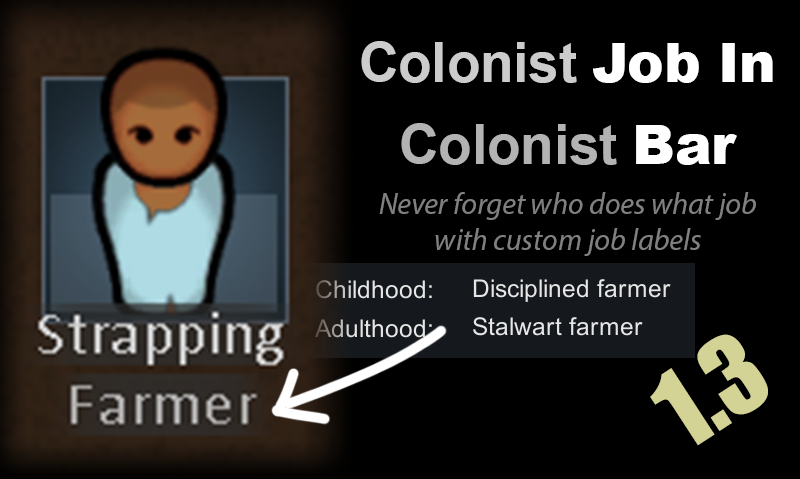
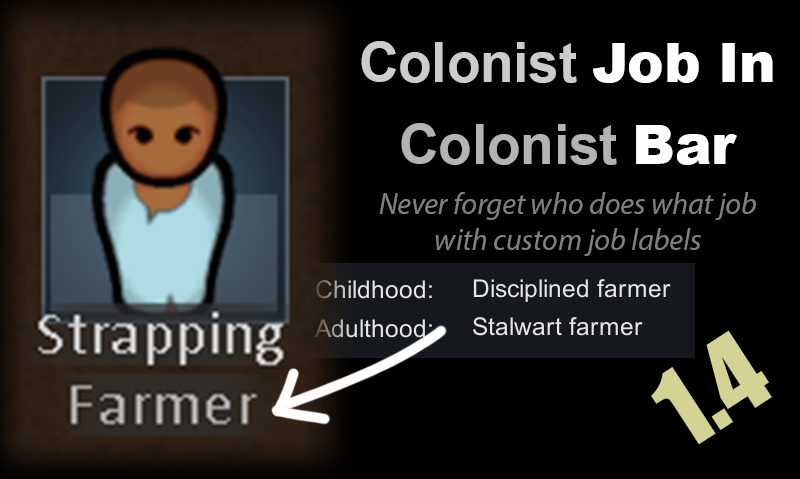
Fully working in 1.4 beta

Changed region(s): [[0.8125, 0.7015, 0.9688, 0.9061]]

diff --git a/Source/Patches/Dialog_NamePawn_Patch.cs b/Source/Patches/Dialog_NamePawn_Patch.cs
@@ -26,7 +26,6 @@ namespace JobInBar
     {
         public static void Postfix(ref Pawn ___pawn, Rect inRect)
         {
-            //Log.Message("Running patch");
             Pawn pawn = ___pawn;
 
             Rect regionRect = inRect;
@@ -35,53 +34,31 @@ namespace JobInBar
             regionRect.height = 36f;
             regionRect.y += 90f;
 
-            float swatchSize = 24f;
-
-            PawnLabelCustomColors_WorldComponent labelsComp;
-            //labelsComp = Find.World.components.OfType<PawnLabelCustomColors_WorldComponent>().First();
-            labelsComp = PawnLabelCustomColors_WorldComponent.instance;
+            PawnLabelCustomColors_WorldComponent labelsComp = PawnLabelCustomColors_WorldComponent.instance;
             if (labelsComp == null)
             {
                 Log.Error("Could not find PawnLabelCustomColors_WorldComponent. Colors and show settings won't work.");
             }
 
-            //Color nameCol;
-            //Color jobCol;
-
             labelsComp.GetJobLabelColorFor(pawn, out Color jobCol);
 
-            Rect leftRect = new Rect(15f, 88f, inRect.width / 2f - 20f, 36f);
-            // Name recoloring disabled for now
-            /*
+            Rect rectToggle = new Rect(inRect.width - 112f, inRect.height - 90f, 64f, 36f);
+            Rect rectColorPicker = new Rect(inRect.width - 42f, inRect.height - 90f, 36f, 36f);
 
-            if (Widgets.ButtonText(nameRect, "JobInBar_NameColorButton".Translate(), true, true, true) || Widgets.ButtonInvisible(nameRect, true))
+            if (Widgets.ButtonInvisible(rectColorPicker, true))
             {
-                Find.WindowStack.Add(new Dialog_ColourPicker(nameCol,
-                (newColor) =>
-                {
-                    labelsComp.SetNameColorFor(pawn, newColor);
-                }
-                ));
+                Find.WindowStack.Add(
+                    new Dialog_ColourPicker(
+                        jobCol.ToOpaque(),
+                        (newColor) => labelsComp.SetJobLabelColorFor(pawn, newColor)
+                    )
+                );
             }
-            Rect swatchRectName = new Rect(nameRect.x+8f, nameRect.y+6f, swatchSize, swatchSize);
-            Widgets.DrawBoxSolid(swatchRectName, nameCol);*/
 
-            Rect rightRect = new Rect(inRect.width/2, 88f, inRect.width/2f - 20f, 36f);
-
-            if (Widgets.ButtonText(rightRect, "JobInBar_JobColorButton".Translate(), true, true, true) || Widgets.ButtonInvisible(rightRect, true))
-            {
-                Find.WindowStack.Add(new Dialog_ColourPicker(jobCol.ToOpaque(),
-                (newColor) =>
-                {
-                    labelsComp.SetJobLabelColorFor(pawn, newColor);
-                }
-                ));
-            }
-            Rect swatchRectJob = new Rect(rightRect.x+rightRect.width - swatchSize - 8f, rightRect.y+6f, swatchSize, swatchSize);
-            Widgets.DrawBoxSolid(swatchRectJob, jobCol);
+            Widgets.DrawBoxSolid(rectColorPicker, jobCol);
 
             bool shouldDraw = labelsComp.GetDrawJobLabelFor(pawn);
-            Widgets.CheckboxLabeled(leftRect, "JobInBar_ShowJobLabelFor".Translate(), ref shouldDraw, placeCheckboxNearText: true);
+            Widgets.CheckboxLabeled(rectToggle, "JobInBar_ShowJobLabelFor".Translate(), ref shouldDraw, placeCheckboxNearText: true);
             labelsComp.SetDrawJobLabelFor(pawn, shouldDraw);
         }
     }
